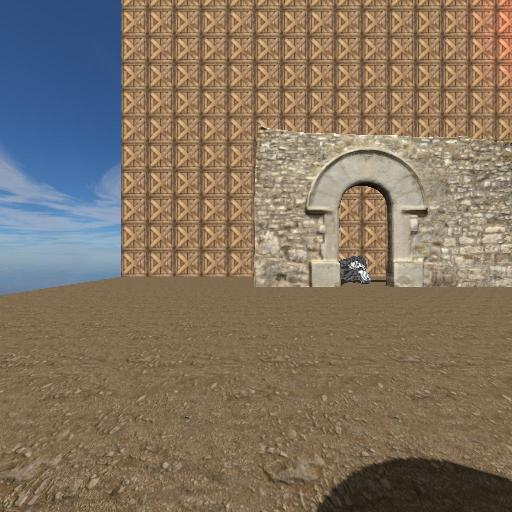
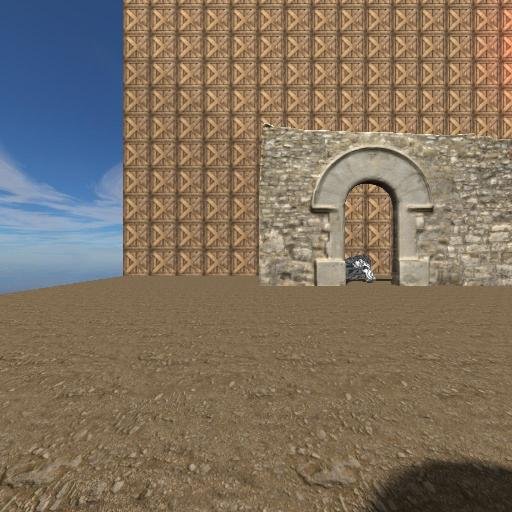
small fixes + progress csm

diff --git a/model.py b/model.py
@@ -143,7 +143,7 @@ class ExtendedBaseModel(BaseModel):
     def update(self):
         self.program['sun.colour'].write(self.app.light.sun.colour)
         self.program['sun.direction'].write(self.app.light.sun.direction)
-        self.program['m_proj_light'].write(self.app.light.m_proj_light)
+        self.program['m_proj_light'].write(self.app.light.m_c1_proj)
         self.program['m_view_light'].write(self.app.light.m_view_light)
         self.update_pbr_values()
         self.depth_texture.use(location=0) #-- fixes a weird bug with imgui, dont keep in final version?
@@ -169,10 +169,11 @@ class ExtendedBaseModel(BaseModel):
         self.program['m_proj'].write(glm.perspective(glm.radians(90), 1, 0.1, 100))
         self.program['m_view'].write(self.app.cube_map_render_data['m_view'])
         self.vao.render()
-        self.undo_cupemap_updates()
+        self.program['IBL_enabled'].value = 1
+        self.program['m_proj'].write(self.app.camera.m_proj)
 
     def update_shadow(self):
-        self.shadow_program['m_proj'].write(self.app.light.m_proj_light)
+        self.shadow_program['m_proj'].write(self.app.light.m_c1_proj)
         self.shadow_program['m_view_light'].write(self.app.light.m_view_light)
         self.shadow_program['m_model'].write(self.m_model)
 
@@ -184,32 +185,6 @@ class ExtendedBaseModel(BaseModel):
         self.norm_rough_metal_height_values = self.app.materials[self.tex_id].norm_rough_metal_height_values
         self.mat_values = glm.vec2(self.app.materials[self.tex_id].roughness_value, self.app.materials[self.tex_id].metalicness_value)
         self.uses_normal = self.app.materials[self.tex_id].norm_rough_metal_height_values.x
-
-    def undo_cupemap_updates(self):
-        self.program['IBL_enabled'].value = 1
-        self.program['m_proj'].write(self.camera.m_proj)
-
-    def update_cubemap(self, cam_pos, face):
-        self.program['sun.colour'].write(self.app.light.sun.colour)
-        self.program['sun.direction'].write(self.app.light.sun.direction)
-        self.program['m_proj_light'].write(self.app.light.m_proj_light)
-        self.program['m_view_light'].write(self.app.light.m_view_light)
-        self.update_pbr_values()
-        self.depth_texture.use(location=0)
-        self.diffuse.use(location=1)
-
-        self.program['IBL_enabled'].value = 0
-
-        self.program['norm_rough_metal_height_values'].write(self.norm_rough_metal_height_values)
-        self.program['mat_values'].write(self.mat_values)
-
-        if self.uses_normal:
-            self.normal.use(location=2)
-
-        self.program['camPos'].write(cam_pos)
-        self.program['m_proj'].write(glm.perspective(glm.radians(90), 1, 0.1, 100))
-        self.program['m_view'].write(get_view_matrix(self.app.camera.position, face))
-        self.program['m_model'].write(self.m_model)
 
     def on_init(self):
         self.program['IBL_enabled'].value = 1
@@ -225,7 +200,7 @@ class ExtendedBaseModel(BaseModel):
         # shadow
         self.shadow_vao = self.app.mesh.vao.vaos['shadow_' + self.vao_name]
         self.shadow_program = self.shadow_vao.program
-        self.shadow_program['m_proj'].write(self.app.light.m_proj_light)
+        self.shadow_program['m_proj'].write(self.app.light.m_c1_proj)
         self.shadow_program['m_view_light'].write(self.app.light.m_view_light)
         self.shadow_program['m_model'].write(self.m_model)
 
@@ -264,7 +239,7 @@ class ExtendedBaseModel(BaseModel):
         self.program['m_view'].write(self.camera.m_view)
         self.program['m_model'].write(self.m_model)
         # sun
-        self.program['m_proj_light'].write(self.app.light.m_proj_light)
+        self.program['m_proj_light'].write(self.app.light.m_c1_proj)
         self.program['sun.colour'].write(self.app.light.sun.colour)
         self.program['sun.direction'].write(self.app.light.sun.direction)
         self.program['sun.Ia'].write(self.app.light.sun.Ia)

diff --git a/shadows.py b/shadows.py
@@ -43,34 +43,52 @@ class ShadowRenderer():
                 obj.render_shadow()
     
     def update_matricies(self, rendering_cubemap):
-        cascade_near, cascade_far = 0.1, 10
         light_dir = self.app.light.sun.direction
-        cascade1_m_proj = glm.perspective(glm.radians(self.app.camera.fov), self.app.camera.aspect_ratio, cascade_near, cascade_far)
-        
+
         if rendering_cubemap == False:
             m_view_camera = self.app.camera.m_view
         else:
             m_view_camera = self.app.cube_map_render_data['m_view']
-        
-        frust_verts = calculate_frustum_corners(m_view_camera, cascade1_m_proj)
-        center = sum(frust_verts) / len(frust_verts)
-        m_view_light = glm.lookAt(center + 50 * light_dir, center + epsilon, glm.vec3(0, 1, 0))
 
-        transformed_verts = []
-        for vert in frust_verts:
-            vert = glm.vec4(vert, 1)
-            vert = m_view_light * vert
-            transformed_verts.append(vert)
+        cascade_data = [
+            [1, 0.1, 10]
+        ]
+
+        cascade_matricies = []
+
+        for cascade in cascade_data:
+            cascade_near = cascade[1]
+            cascade_far = cascade[2]
+
+            cascade_m_proj = glm.perspective(glm.radians(self.app.camera.fov), self.app.camera.aspect_ratio, cascade_near, cascade_far)
+            frust_verts = calculate_frustum_corners(m_view_camera, cascade_m_proj)
+            center = sum(frust_verts) / len(frust_verts)
+            m_view_light = glm.lookAt(center + 50 * light_dir, center + epsilon, glm.vec3(0, 1, 0))
+
+            transformed_verts = []
+            for vert in frust_verts:
+                vert = glm.vec4(vert, 1)
+                vert = m_view_light * vert
+                transformed_verts.append(vert)  
+          
+            x_verts = [vert.x for vert in transformed_verts]
+            y_verts = [vert.y for vert in transformed_verts]
+            min_x = min(x_verts)
+            max_x = max(x_verts)
+            min_y = min(y_verts)
+            max_y = max(y_verts)
+
+            proj = glm.ortho(min_x, max_x, min_y, max_y, 0.1, 100)
+            view = m_view_light
+            
+            cascade_matricies.append([proj, view])
         
-        x_verts = [vert.x for vert in transformed_verts]
-        y_verts = [vert.y for vert in transformed_verts]
-        min_x = min(x_verts)
-        max_x = max(x_verts)
-        min_y = min(y_verts)
-        max_y = max(y_verts)
-                
-        self.app.light.m_proj_light = glm.ortho(min_x, max_x, min_y, max_y, 0.1, 100)
-        self.app.light.m_view_light = m_view_light
+        temp_proj = []
+        for cascade in cascade_matricies:
+            temp_proj.append(cascade)
+
+        self.app.light.m_c1_proj = temp_proj[0][0]
+        self.app.light.m_view_light = temp_proj[0][1]
 
     def destroy(self):
         self.cascade_1_fbo.release()

diff --git a/scene_renderer.py b/scene_renderer.py
@@ -87,8 +87,8 @@ class SceneRenderer:
             self.convolute_cubemap(cam_pos, face, cubemap_texture)
 
     def convolute_cubemap(self, cam_pos, face, cubemap_texture):
-        convoluted_size = (512, 512)
-        color_texture = self.app.ctx.texture(convoluted_size, 3, dtype='f1')
+        convoluted_render_size = (512, 512)
+        color_texture = self.app.ctx.texture(convoluted_render_size, 3, dtype='f1')
         convolution_fbo = self.app.ctx.framebuffer(color_attachments=[color_texture])
         convolution_fbo.clear(color=(1, 0, 0))
         convolution_fbo.use()
@@ -96,12 +96,11 @@ class SceneRenderer:
         self.scene.convoluter.update_face(cam_pos, face, cubemap_texture)
         self.scene.convoluter.render()
         
-        data = np.empty((convoluted_size[0], convoluted_size[1], 3), dtype=np.float32)
+        data = np.empty((convoluted_render_size[0], convoluted_render_size[1], 3), dtype=np.float32)
         data = convolution_fbo.read()
-        image = Image.frombytes('RGB', convoluted_size, data=data)
+        image = Image.frombytes('RGB', convoluted_render_size, data=data)
 
         image = image.transpose(Image.FLIP_TOP_BOTTOM)
-
         image.save(f'cubemap_renderer/convoluted-{face}.jpg', 'JPEG')
         
         #convolution_fbo.release() #cant release, something to do with imgui??

diff --git a/texture.py b/texture.py
@@ -93,6 +93,8 @@ class Texture:
         self.textures[2] = self.get_texture(path=f'{script_path}/textures/img_2.png')
         self.textures['skybox'] = self.get_texture_cube(dir_path=f'{script_path}/textures/skybox1/', ext='png')
         self.textures['cascade_1'] = self.get_depth_texture()
+        self.textures['cascade_2'] = self.get_depth_texture()
+        self.textures['cascade_3'] = self.get_depth_texture()
         self.textures['irradiance'] = self.get_texture_cube(dir_path=f'{script_path}/cubemap_renderer/convoluted-', ext='jpg')
         self.textures['reflection'] = self.get_texture_cube(dir_path=f'{script_path}/cubemap_renderer/sharp-', ext='jpg')
         self.textures['brdf_lut'] = self.get_texture(path=f'{script_path}/textures/brdf_lut.png')

diff --git a/light.py b/light.py
@@ -18,7 +18,7 @@ class Light:
         self.sun = Sun()
         self.direction = self.sun.direction
         # matricies
-        self.m_proj_light = self.get_proj_matrix()
+        self.m_c1_proj = self.get_proj_matrix()
         self.m_view_light = glm.lookAt(glm.vec3(0, 0, 0) + 100 * self.direction, glm.vec3(0, 0, 0) + epsilon, glm.vec3(0, 1, 0))
 
     def get_proj_matrix(self):
